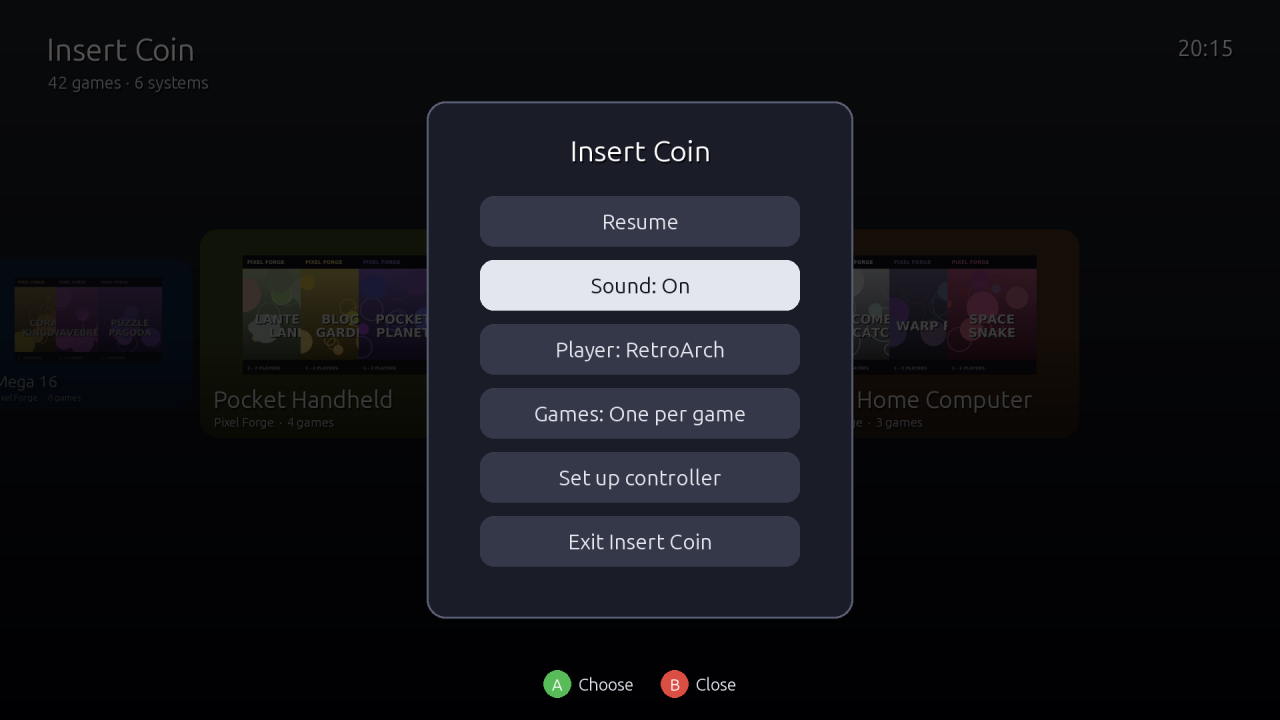
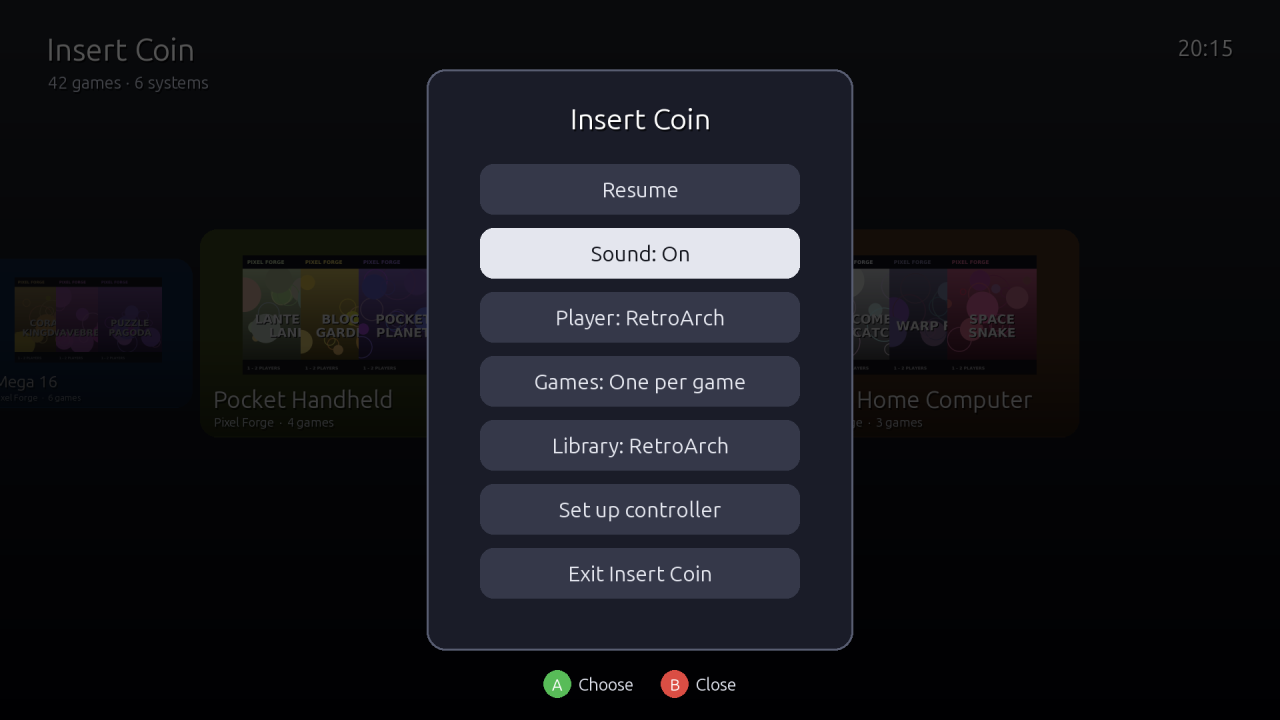
Own library (beta): import RetroArch's playlists into library.json
B menu -> "Library: RetroArch / Insert Coin (beta)". The first time Insert Coin's
library is chosen, every RetroArch playlist is copied into
~/.local/share/insert-coin/library.json as RetroArch stored it; after that it is
read from there. Cores are chosen when it is read, exactly as for RetroArch's
playlists, so games, versions and favorites come out the same. Favorites and
Recently Played are still RetroArch's. If library.json can't be read, Insert
Coin shows RetroArch's playlists and says so, and leaves the file alone.

The switch message counts the games shown in the current Games mode.
Tests: tests/test_ownlib.py (9). The search cursor is drawn steadily in --shot
mode so search.png is reproducible.

Changed region(s): [[0.3125, 0.0917, 0.6875, 0.9167]]

diff --git a/tests/test_ownlib.py b/tests/test_ownlib.py
@@ -1,0 +1,106 @@
+"""Insert Coin's own library: imported from RetroArch, the same games, and RetroArch's lists if it can't be read."""
+import json, os, unittest
+import support as S
+import paths
+from insertcoin.library import Library
+from insertcoin.ownlib import OwnLibrary, import_retroarch, open_source
+from insertcoin.retroarch import RetroArch
+
+
+def dump(lib):
+    return {s["id"]: [(g.label, g.path, g.core, g.db, [v.path for v in g.versions] if g.versions else None)
+                      for g in s["games"]] for s in lib.systems} | {"hidden": lib.hidden}
+
+
+class Import(unittest.TestCase):
+    def setUp(self):
+        self.mesen, self.fbneo = S.sample_library()
+
+    def test_the_same_games_as_retroarchs_playlists(self):
+        self.assertEqual(import_retroarch(), 13)                         # 10 NES, 2 arcade, 1 homebrew
+        for mode in (True, False):
+            self.assertEqual(dump(Library(mode, source=OwnLibrary())), dump(Library(mode, source=RetroArch())))
+
+    def test_stored_as_retroarch_had_it(self):
+        import_retroarch()
+        doc = S.read(paths.LIBRARY)
+        nes = next(s for s in doc["systems"] if s["name"] == S.NES)
+        self.assertEqual(nes["default_core"], self.mesen)
+        wave = next(g for g in nes["games"] if g["label"] == "Wavebreaker (USA)")
+        self.assertEqual(wave["core"], f"{S.CORES}/missing_libretro.so")    # kept, though not installed
+        self.assertIsNone(nes["games"][0]["core"])                          # "DETECT": the playlist's default
+
+    def test_cores_are_chosen_when_read(self):
+        """A core installed after the import is used, as RetroArch's playlists would."""
+        import_retroarch()
+        S.core("missing_libretro.so")
+        wave = next(g for s in Library(source=OwnLibrary()).systems for g in s["games"] if g.label == "Wavebreaker (USA)")
+        self.assertEqual(wave.core, f"{S.CORES}/missing_libretro.so")
+
+    def test_favorites_and_history_still_retroarchs(self):
+        import_retroarch()
+        lib = Library(source=OwnLibrary())
+        g = next(g for s in lib.systems if s["id"] == S.NES for g in s["games"] if g.label == "Wavebreaker (USA)")
+        self.assertTrue(lib.toggle_favorite(g))
+        self.assertEqual(S.read(RetroArch.FAVORITES)["items"][0]["path"], g.path)
+        lib.add_history(g)
+        lib.refresh_specials()
+        self.assertEqual(next(s for s in lib.systems if s["id"] == "recent")["games"][0].core, self.mesen)
+
+
+class Choosing(unittest.TestCase):
+    def setUp(self):
+        S.sample_library()
+
+    def test_retroarch_by_default(self):
+        kind, source, note = open_source("retroarch")
+        self.assertEqual((kind, note), ("retroarch", None))
+        self.assertFalse(os.path.exists(paths.LIBRARY))                      # nothing written
+
+    def test_imported_the_first_time(self):
+        kind, source, note = open_source("insertcoin")
+        self.assertEqual(kind, "insertcoin")
+        self.assertEqual(note, "imported")
+        self.assertEqual(open_source("insertcoin")[2], None)                 # the second time: just read
+
+    def test_a_damaged_library_falls_back_to_retroarch(self):
+        os.makedirs(os.path.dirname(paths.LIBRARY), exist_ok=True)
+        with open(paths.LIBRARY, "w") as f: f.write("{not json")
+        kind, source, note = open_source("insertcoin")
+        self.assertEqual(kind, "retroarch")
+        self.assertIsInstance(source, RetroArch)
+        self.assertIn("couldn't be read", note)
+        with open(paths.LIBRARY) as f: self.assertEqual(f.read(), "{not json")   # left alone, never overwritten
+
+
+class MenuSwitch(unittest.TestCase):
+    def test_switch_and_back(self):
+        S.sample_library()
+        import insert_coin as ic
+        app = ic.App(shot=f"{S.TMP}/shots")
+        before = dump(app.lib)
+        app.screen_mode = "quit"; app.quit_sel = app.POWER_MENU.index("Library: RetroArch"); app.accept()
+        self.assertEqual(app.lib_kind, "insertcoin")
+        self.assertIn("Library: Insert Coin (beta)", app.POWER_MENU)
+        self.assertEqual(json.load(open(f"{S.TMP}/config/settings.json"))["library"], "insertcoin")
+        self.assertIn("imported", app.toast[0])
+        self.assertEqual(dump(app.lib), before)
+        shown = sum(len(s["games"]) for s in app.lib.systems if not s["special"])
+        self.assertLess(shown, 13)                                           # copies hidden: fewer than imported
+        self.assertIn(f" - {shown} games (imported", app.toast[0])           # the games it shows, not the entries
+        app.accept()                                                         # and back to RetroArch
+        self.assertEqual(app.lib_kind, "retroarch")
+        self.assertEqual(json.load(open(f"{S.TMP}/config/settings.json"))["library"], "retroarch")
+        app.draw()
+
+    def test_first_switch_in_show_all_counts_entries(self):
+        S.sample_library()
+        import insert_coin as ic
+        app = ic.App(shot=f"{S.TMP}/shots")
+        app.screen_mode = "quit"; app.quit_sel = app.POWER_MENU.index("Games: One per game"); app.accept()
+        app.quit_sel = app.POWER_MENU.index("Library: RetroArch"); app.accept()
+        self.assertIn(" - 13 entries (imported", app.toast[0])
+
+
+if __name__ == "__main__":
+    unittest.main()

diff --git a/insertcoin/app.py b/insertcoin/app.py
@@ -5,6 +5,7 @@ from insertcoin import __version__
 from insertcoin.logs import log, start_log
 from insertcoin.web import WebGame
 from insertcoin.library import Library
+from insertcoin.ownlib import open_source
 from insertcoin.cores import not_builtin_systems
 from insertcoin.meta import Meta
 from insertcoin.media import Fonts, Images, Sounds
@@ -25,7 +26,7 @@ class App(Pads, Launcher, Screens):
         self.sfx = Sounds(enabled=self.settings["sound"], start=not shot)
         self.open_display()
         self.fonts = Fonts()
-        self.lib = Library(one_per_game=self.settings["one_per_game"])
+        self.lib = self.make_library()
         self.meta = Meta({s["id"] for s in self.lib.systems if not s["special"]})
         self.img = Images(sync=bool(shot))
         self.pads = {}; self.pad_style = {}                         # device index -> Controller; instance id -> style
@@ -51,6 +52,7 @@ class App(Pads, Launcher, Screens):
         self.hold = {}; self.quit_sel = 1; self.vlist = []; self.vsel = 0
         self.q = ""; self.kpos = (1, 0); self.preview = []; self.back_to = (self.si, "systems")   # the search screen
         self.clock = pygame.time.Clock()
+        if self.lib_note: self.say(self.library_message(), 4.0)
 
     # -- display / input
     def open_display(self):
@@ -58,6 +60,12 @@ class App(Pads, Launcher, Screens):
         self.screen = pygame.display.set_mode((W, H), flags, vsync=0 if self.shot else 1)
         pygame.display.set_caption("Insert Coin")
         pygame.mouse.set_visible(bool(self.windowed))
+
+    def make_library(self):
+        """The game library from the source the "library" setting names (RetroArch's playlists or Insert Coin's)."""
+        self.lib_kind, source, self.lib_note = open_source(self.settings.get("library"))
+        log.info("Library: %s", "Insert Coin (beta)" if self.lib_kind == "insertcoin" else "RetroArch playlists")
+        return Library(one_per_game=self.settings["one_per_game"], source=source)
 
     # -- current state helpers
     @property
@@ -126,6 +134,7 @@ class App(Pads, Launcher, Screens):
             elif choice.startswith("Sound"): self.toggle_sound()
             elif choice.startswith("Player"): self.toggle_engine()
             elif choice.startswith("Games"): self.toggle_grouping()
+            elif choice.startswith("Library"): self.toggle_library()
             else: self.sfx.play("select"); self.setup_from_menu()
 
     def toggle_grouping(self):
@@ -134,12 +143,32 @@ class App(Pads, Launcher, Screens):
         try: save_settings(self.settings)
         except Exception as e: self.say(f"Could not save the setting: {e}")
         sid = self.sys["id"] if self.lib.systems else None
-        self.lib = Library(one_per_game=self.settings["one_per_game"]); self.gi = {}
+        self.lib = self.make_library(); self.gi = {}
         self.si = next((i for i, s in enumerate(self.lib.systems) if s["id"] == sid), 0); self.spos = float(self.si)
         self.sfx.play("select")
         total = sum(len(s["games"]) for s in self.lib.systems if not s["special"])
         self.say(f"One entry per game: {total:,} games (other versions under X)" if self.settings["one_per_game"]
                  else f"Showing every ROM: {total:,} entries", 3.0)
+
+    def toggle_library(self):
+        """RetroArch's playlists or Insert Coin's own library (imported from RetroArch the first time)."""
+        self.settings["library"] = "retroarch" if self.settings.get("library") == "insertcoin" else "insertcoin"
+        sid = self.sys["id"] if self.lib.systems else None
+        self.lib = self.make_library(); self.gi = {}
+        if self.lib_kind != self.settings["library"]: self.settings["library"] = self.lib_kind   # it fell back
+        try: save_settings(self.settings)
+        except Exception as e: self.say(f"Could not save the setting: {e}")
+        self.si = next((i for i, s in enumerate(self.lib.systems) if s["id"] == sid), 0); self.spos = float(self.si)
+        self.sfx.play("select")
+        self.say(self.library_message(), 3.0)
+
+    def library_message(self):
+        """What the library switch says: which library, and how many games it shows in the current Games mode."""
+        if self.lib_note and self.lib_note != "imported": return self.lib_note          # it fell back to RetroArch
+        total = sum(len(s["games"]) for s in self.lib.systems if not s["special"])
+        count = f"{total:,} games" if self.settings["one_per_game"] else f"{total:,} entries"
+        if self.lib_kind != "insertcoin": return f"Library: RetroArch playlists - {count}"
+        return f"Library: Insert Coin (beta) - {count}" + (" (imported from RetroArch)" if self.lib_note else "")
 
     def toggle_engine(self):
         self.settings["engine"] = not self.settings.get("engine")

diff --git a/insertcoin/ownlib.py b/insertcoin/ownlib.py
@@ -1,0 +1,87 @@
+"""Insert Coin's own game library: library.json, first filled from RetroArch's playlists.
+
+It gives the library (library.py) the same records as the RetroArch source (retroarch.py), so either can be
+used: B menu -> "Library". Each game is kept as RetroArch had it - name, file, its own core if it named one,
+playlist - with each playlist's default core, and the core is chosen when the library is read, exactly as
+RetroArch's playlists are read. Favorites and Recently Played still come from RetroArch for now."""
+import json, os, time
+from paths import LIBRARY
+from insertcoin.logs import log
+from insertcoin.names import split_archive
+from insertcoin.retroarch import Entry, RetroArch, read_json
+
+VERSION = 1
+
+
+def raw_entry(it, playlist_db):
+    """A RetroArch playlist item as stored here: what it says, before any core is chosen."""
+    c = it.get("core_path") or ""
+    return {"label": it.get("label") or os.path.splitext(os.path.basename(split_archive(it["path"])[0]))[0],
+            "path": it["path"], "core": c if c not in ("", "DETECT") else None, "db": it.get("db_name") or playlist_db}
+
+
+def import_retroarch(ra=None):
+    """Read every RetroArch playlist into library.json; returns the number of games."""
+    ra = ra or RetroArch()
+    systems = []
+    for f in sorted(os.listdir(ra.PLAYLISTS) if os.path.isdir(ra.PLAYLISTS) else []):
+        if not f.endswith(".lpl"): continue
+        d = read_json(f"{ra.PLAYLISTS}/{f}")
+        if not d: continue
+        systems.append({"name": f[:-4], "default_core": d.get("default_core_path") or None,
+                        "games": [raw_entry(it, f) for it in d.get("items", []) if it.get("path")]})
+    doc = {"version": VERSION, "imported_from": "retroarch", "imported": round(time.time()), "systems": systems}
+    os.makedirs(os.path.dirname(LIBRARY), exist_ok=True)
+    tmp = LIBRARY + ".tmp"
+    with open(tmp, "w", encoding="utf-8") as fh: json.dump(doc, fh, indent=1, ensure_ascii=False)
+    os.replace(tmp, LIBRARY)
+    n = sum(len(s["games"]) for s in systems)
+    log.info("Library: imported %d games in %d playlists from RetroArch into %s", n, len(systems), LIBRARY)
+    return n
+
+
+class OwnLibrary:
+    """The source behind "Library: Insert Coin". Raises LibraryError if library.json can't be used."""
+    SAVES = RetroArch.SAVES                                         # games still save where RetroArch keeps saves
+
+    def __init__(self):
+        self.ra = RetroArch()                                       # favorites and history, for now
+        self.doc = read_json(LIBRARY)
+        if not isinstance(self.doc, dict) or self.doc.get("version") != VERSION or not isinstance(self.doc.get("systems"), list):
+            raise LibraryError(f"{LIBRARY} is missing or can't be read")
+
+    def playlists(self):
+        """[(name, [Entry, ...])], as RetroArch.playlists() gives them: an entry's own core only if installed."""
+        out = []
+        for s in self.doc["systems"]:
+            dc = s.get("default_core")
+            default = dc if dc and os.path.exists(dc) else None
+            self.ra.defaults[s["name"] + ".lpl"] = default             # favorites and history use them too
+            out.append((s["name"], [Entry(g["label"], g["path"], g["core"] if g.get("core") and os.path.exists(g["core"]) else default,
+                                          g["db"]) for g in s["games"]]))
+        return out
+
+    def favorites(self): return self.ra.favorites()
+    def favorite_marks(self): return self.ra.favorite_marks()
+    def set_favorite(self, g, on): return self.ra.set_favorite(g, on)
+    def history(self): return self.ra.history()
+    def add_history(self, g): return self.ra.add_history(g)
+
+
+class LibraryError(Exception):
+    pass
+
+
+def open_source(kind):
+    """The source for the "library" setting: ("insertcoin" or "retroarch", source, a note for the user or None).
+    The note is "imported" the first time (the app words it, counting the games it shows) or a fallback message.
+    Insert Coin's own library is imported from RetroArch the first time; if it can't be used, RetroArch is."""
+    if kind != "insertcoin": return "retroarch", RetroArch(), None
+    note = None
+    try:
+        if not os.path.exists(LIBRARY):
+            import_retroarch(); note = "imported"
+        return "insertcoin", OwnLibrary(), note
+    except Exception as e:
+        log.warning("Insert Coin's own library can't be used (%s): using RetroArch's playlists", e)
+        return "retroarch", RetroArch(), "Insert Coin's library couldn't be read - showing RetroArch's playlists"

diff --git a/insertcoin/screens.py b/insertcoin/screens.py
@@ -236,7 +236,7 @@ class Screens:
         f = self.fonts(46, True)
         if self.q:
             r = text(self.screen, f, self.q, (box.left + 34, box.centery), (20, 22, 30), anchor="midleft", shadow=False, maxw=980)
-            if int(time.time() * 2) % 2: pygame.draw.rect(self.screen, (20, 22, 30), (r.right + 4, box.centery - 26, 4, 52))
+            if self.shot or int(time.time() * 2) % 2: pygame.draw.rect(self.screen, (20, 22, 30), (r.right + 4, box.centery - 26, 4, 52))
         else:
             text(self.screen, self.fonts(40), "for example: knight", (box.left + 34, box.centery), (140, 145, 160), anchor="midleft", shadow=False)
         x0, y, kw, gap = box.left, 320, 94, 10
@@ -271,7 +271,9 @@ class Screens:
     def POWER_MENU(self):
         return ("Resume", f"Sound: {'On' if self.sfx.enabled else 'Off'}",
                 f"Player: {'Built-in (beta)' if self.settings.get('engine') else 'RetroArch'}",
-                f"Games: {'One per game' if self.settings['one_per_game'] else 'Show all'}", "Set up controller", "Exit Insert Coin")
+                f"Games: {'One per game' if self.settings['one_per_game'] else 'Show all'}",
+                f"Library: {'Insert Coin (beta)' if self.settings.get('library') == 'insertcoin' else 'RetroArch'}",
+                "Set up controller", "Exit Insert Coin")
 
     def draw_quit(self):
         self.draw_systems(hints=False)

diff --git a/paths.py b/paths.py
@@ -15,6 +15,7 @@ CACHE = f"{HOME}/.cache/insert-coin"                                  # year/pub
 LOGDIR = f"{os.environ.get('XDG_STATE_HOME') or HOME + '/.local/state'}/insert-coin"
 CONFDIR = os.environ.get("INSERT_COIN_CONFIG") or f"{HOME}/.config/insert-coin"
 SAVES = os.environ.get("INSERT_COIN_SAVES") or f"{APPDIR}/saves"
+LIBRARY = f"{APPDIR}/library.json"                                    # Insert Coin's own game library (B menu: Library)
 # BIOS files: Insert Coin's own folder once it has one, else the one RetroArch uses (Neo Geo BIOS lives there)
 SYSTEM = f"{APPDIR}/system" if os.path.isdir(f"{APPDIR}/system") else f"{RA}/system"
 HERE = os.path.dirname(os.path.abspath(__file__))                    # the folder with insert_coin.py and engine.py

diff --git a/insertcoin/__init__.py b/insertcoin/__init__.py
@@ -6,6 +6,7 @@
   screens      drawing every screen
   library      the systems' games, Favorites, Recently Played, browser playlists
   retroarch    the games' source: RetroArch's playlists, favorites, history, thumbnails
+  ownlib       Insert Coin's own library (library.json), imported from RetroArch
   games        a game;  names: labels, sorting, versions;  meta: year and publisher
   web          browser and Flash games;  flashinput: optional DevTools input for Flash
   systems      known systems;  cores: every core, its systems, built-in player, arcade

diff --git a/insert_coin.py b/insert_coin.py
@@ -33,6 +33,7 @@ from insertcoin.cores import *  # noqa: F401,F403
 from insertcoin.controllers import *  # noqa: F401,F403
 from insertcoin.names import *  # noqa: F401,F403
 from insertcoin.retroarch import *  # noqa: F401,F403
+from insertcoin.ownlib import *  # noqa: F401,F403
 from insertcoin.games import *  # noqa: F401,F403
 from insertcoin.web import *  # noqa: F401,F403
 from insertcoin.flashinput import *  # noqa: F401,F403

diff --git a/insertcoin/settings.py b/insertcoin/settings.py
@@ -3,7 +3,7 @@ import json, os
 from paths import CONFDIR
 
 
-DEFAULT_SETTINGS = {"sound": True, "engine": False, "one_per_game": True}
+DEFAULT_SETTINGS = {"sound": True, "engine": False, "one_per_game": True, "library": "retroarch"}
 
 def load_settings():
     try:

diff --git a/README.md b/README.md
@@ -134,6 +134,7 @@ back. From the results, **B** returns to the keyboard with your words still ther
 | **Sound: On / Off** | Menu sounds |
 | **Player: RetroArch / Built-in (beta)** | Which program plays your games — see [Built-in player](#built-in-player-beta) |
 | **Games: One per game / Show all** | Group copies and versions of a game into one entry, or list every ROM |
+| **Library: RetroArch / Insert Coin (beta)** | Where the list of games comes from: RetroArch's playlists, or Insert Coin's own library. The first time you choose Insert Coin, it copies your RetroArch playlists into its own library (a second or so); after that it reads its own copy. Same games, versions and box art either way; favorites and Recently Played are still RetroArch's. If Insert Coin's library can't be read, it shows RetroArch's playlists and says so |
 | **Set up controller** | Redo the button set-up for an unrecognised pad |
 | **Exit Insert Coin** | Close Insert Coin |
 
@@ -433,7 +434,8 @@ can overwrite each other's settings.
 | `~/.cache/insert-coin/meta/` | Cached year/publisher lookups |
 | `~/.config/insert-coin/controllers.json` | Button set-ups for controllers that aren't recognised automatically |
 | `~/.config/insert-coin/remaps/` | Button layouts you chose for single games in the built-in player (**Controls**) |
-| `~/.config/insert-coin/settings.json` | Your settings: menu sounds, which player, one entry per game or show all |
+| `~/.config/insert-coin/settings.json` | Your settings: menu sounds, which player, one entry per game or show all, which library |
+| `~/.local/share/insert-coin/library.json` | Insert Coin's own game library (**Library: Insert Coin**), copied from your RetroArch playlists the first time you choose it |
 | `~/.config/insert-coin/played.json` | Favorites and Recently Played for browser games, and the time of each game launch (to place them in Recently Played) |
 | `~/.local/share/insert-coin/browser/` | The browser profile browser games run in |
 | `~/.local/state/insert-coin/browser-last.log` | The browser's output for the last browser game (`browser-previous.log`: the one before) |
